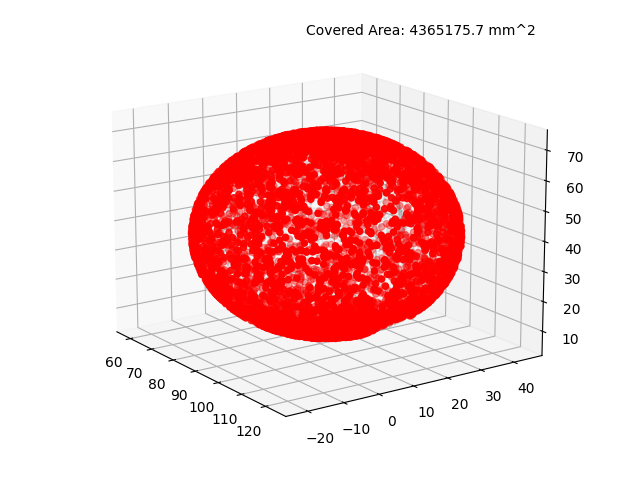
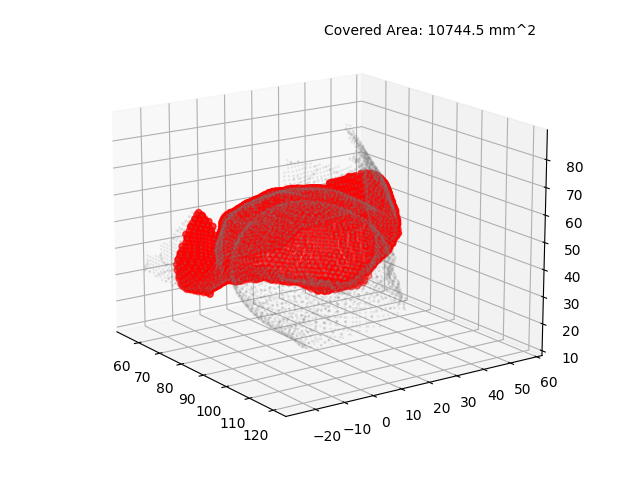
compare algorithms (very different magnitude)

diff --git a/src/mri/hip_project/distance_between_meshs_from_stl.py b/src/mri/hip_project/distance_between_meshs_from_stl.py
@@ -340,8 +340,8 @@ def nearest_algorithm(femur_mesh, pelvis_mesh, threshold, figures_path):
 
     start_time = time.time()
 
-    # Calculate the distance between the meshes
-    distance = femur_mesh.nearest.on_surface(pelvis_mesh.vertices)
+    # Calculate the distance between the meshes (femur to pelvis)
+    distance = pelvis_mesh.nearest.on_surface(femur_mesh.vertices)
 
     # Get logical array of the distances
     is_covered_femur = distance[1] < threshold
@@ -408,8 +408,6 @@ def compare_area_covered_different_thersholds(pelvis_path, femur_path, threshold
         elif algorithm == 'fit_sphere_algoritm':
             fit_sphere_algoritm(pelvis, femur, threshold, figures_path)
 
-
-
 def plot_summary_results():
 
     paths = Project()
@@ -418,6 +416,9 @@ def plot_summary_results():
     all_results = pd.DataFrame(columns=['subject', 'threshold', 'covered_area', 'algorithm'])
     for subject in os.listdir(paths.example_folder):
         
+        if subject not in paths.subjects:
+            continue
+
         # add the results for the sphere algorithm
         try:
             sphere_csv_path = os.path.join(paths.example_folder, subject, f"figures", f"fit_sphere_algoritm.csv")
@@ -442,10 +443,14 @@ def plot_summary_results():
             
 
             
-    # save the summary results to a csv file     
-    summary_csv_path = os.path.join(paths.example_folder, 'summary.csv')            
-    all_results.to_csv(summary_csv_path, index=False)
-    print(f"Summary results saved at: {summary_csv_path}")
+    # save the summary results to a csv file 
+    try:    
+        summary_csv_path = os.path.join(paths.example_folder, 'summary.csv')            
+        all_results.to_csv(summary_csv_path, index=False)
+        print(f"Summary results saved at: {summary_csv_path}")
+    except Exception as e:
+        print(f"Error: Could not save summary results")
+        print(e)
 
     # plot the summary results
     try:
@@ -453,10 +458,13 @@ def plot_summary_results():
         # one subplot for each algorithm
         fig = plt.figure()
         n_subplots = len(all_results['algorithm'].unique())
+        count_subplots = 0
         for algorithm in all_results['algorithm'].unique():
+            count_subplots += 1
             algorithm_results = all_results[all_results['algorithm'] == algorithm]
-            Y = algorithm_results['covered_area'].groupby([algorithm_results['subject'], algorithm_results['threshold']]).mean()      
-            Y.unstack().plot(kind='bar', ax=fig.add_subplot(1,n_subplots,1), title=algorithm)
+            ax = fig.add_subplot(1,n_subplots,count_subplots)
+            Y = algorithm_results['covered_area'].groupby([algorithm_results['subject'], algorithm_results['threshold']]).mean()
+            Y.unstack().plot(kind='bar', ax=ax, title=algorithm)
             
             plt.ylabel('Covered Area (mm^2)')
             plt.xlabel('Subject')
@@ -467,6 +475,7 @@ def plot_summary_results():
         save_file_path = os.path.join(paths.example_folder, 'summary.png')
         plt.savefig(save_file_path)
         plt.show()
+        
     except Exception as e:
         print(f"Error: Could not plot summary results")
         print(e)
@@ -480,7 +489,7 @@ if __name__ == "__main__":
     legs = ["r", "l"]
     thresholds = [10, 15]
     skip_subjects = ["013"]
-    algorithm = 'fit_sphere_algoritm' # 'nearest' or 'fit_sphere_algoritm'
+    algorithm = 'nearest' # 'nearest' or 'fit_sphere_algoritm'
 
 
     ####################################################################################################
